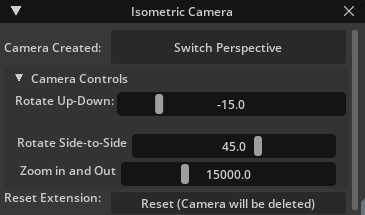
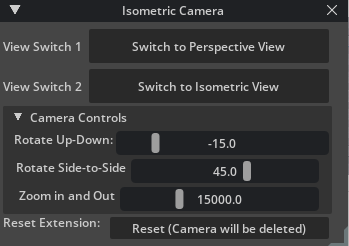
Fixes post Omniverse Developer Q&A - 1/20/2022

diff --git a/exts/funkyboy.isometric.camera/funkyboy/isometric/camera/window.py b/exts/funkyboy.isometric.camera/funkyboy/isometric/camera/window.py
@@ -6,7 +6,7 @@ from .camera_maker import CameraMaker
 from omni.kit.widget.viewport import ViewportWidget
 from pxr import Gf, Sdf
 
-# this file controls all ui elements and
+# this file controls all ui elements and contains the slider models which are used to rotate the camera
 
 WINDOW_TITLE = "Isometric Camera"
 
@@ -15,9 +15,7 @@ SPACING = 4
 class IsometricCameraWindow(ui.Window):
     def __init__(self, title, menu_path):
         # call the super class init method and set the window's title and size
-        super().__init__(title, width=450, height=200)
-        # dock the extension besides the enviornments tab
-        super().dock_in_window("Environments", ui.DockPosition.SAME) 
+        super().__init__(title, width=350, height=250)
         # store the menu path passed as an argument
         self._menu_path = menu_path
         # set a function that will be called when the window's visibility changes
@@ -30,6 +28,8 @@ class IsometricCameraWindow(ui.Window):
         self.is_isometric = False
 
     def _build_window(self):
+        #Dock the Window
+        super().dock_in_window("Property", ui.DockPosition.SAME)
         # Create a scrolling frame
         with ui.ScrollingFrame():
             # Create a vertical stack layout
@@ -42,41 +42,46 @@ class IsometricCameraWindow(ui.Window):
                     self.camera_created = True
                     # Set the build function to the one for when a camera has been created
                     self.frame.set_build_fn(self._build_window_camera_created)
+                    from omni.kit.viewport.utility import get_active_viewport
+                    viewport = get_active_viewport()
+                    viewport.camera_path = ("/World/Isometric_Camera/Isometric_Camera")
                 # Create a horizontal stack layout
                 with ui.HStack(height=0, spacing=SPACING):
                     # Create a label "Start Here: "
                     ui.Label("Start Here: ", height=40, width=0)
                     # Create a button with the text "Create Camera" and call the on_create_camera function when clicked
-                    ui.Button("Create Camera", clicked_fn=on_create_camera)
-
-    def _build_window_camera_created(self):
-        with ui.ScrollingFrame():
-            with ui.VStack(height=0):
-                def on_switch_camera():
-                    # Get the active viewport
+                    ui.Button("Create Camera and Switch View", clicked_fn=on_create_camera)
                     from omni.kit.viewport.utility import get_active_viewport
                     viewport = get_active_viewport()
-                    # Check if there is no active viewport and raise an error if there isn't
-                    if not viewport:
-                        raise RuntimeError("No active Viewport")
-                    # make button switch to isometric camera
-                    if not self.is_isometric:
-                        viewport.camera_path = ("/World/Isometric_Camera/Isometric_Camera")
-                        self.is_isometric = True
-                    # make button switch to Omniverse default perspective view 
-                    else:
-                        viewport.camera_path = ('/OmniverseKit_Persp')
-                        self.is_isometric = False
-                # Create UI Buttons to switch perspective
+                    viewport.camera_path = ("/World/Isometric_Camera/Isometric_Camera")
+
+
+
+    def _build_window_camera_created(self):
+        #Function to switch to Isometric View
+        def isometric_switch():
+            from omni.kit.viewport.utility import get_active_viewport
+            viewport = get_active_viewport()
+            viewport.camera_path = ("/World/Isometric_Camera/Isometric_Camera")
+            self.is_isometric = True
+        #Function to switch to Perspective View
+        def perspective_switch():
+            # Get the active viewport
+            from omni.kit.viewport.utility import get_active_viewport
+            viewport = get_active_viewport()
+            viewport.camera_path = ('/OmniverseKit_Persp')
+            self.is_isometric = False
+        with ui.ScrollingFrame():
+            with ui.VStack(height=0):
                 with ui.HStack(height=0, spacing=SPACING):
-                    ui.Label("Camera Created: ", height=40, width=0)
-                    ui.Button("Switch Perspective", clicked_fn=on_switch_camera, label=self.get_button_label())
-                # with ui.HStack(height=0, spacing=SPACING):
-                #     ui.Label("Current camera: ", height=40, width=0)
-                #     ui.Label("Isometric Camera" if self.is_isometric else "Perspective Camera", id="current_camera")
-            
+                    ui.Label("View Switch 1", height=40, width=0)
+                    ui.Button("Switch to Perspective View", clicked_fn=perspective_switch)                    
+                with ui.HStack(height=0, spacing=SPACING):
+                    ui.Label("View Switch 2", height=40, width=0)
+                    ui.Button("Switch to Isometric View", clicked_fn=isometric_switch)
+     
              
-                #create a simple float value that can be bound to a UI
+                #create a model for each slider
                 self._slider_model_x = ui.SimpleFloatModel()
                 self._slider_model_y = ui.SimpleFloatModel()
                 self._slider_model_zoom = ui.SimpleFloatModel()
@@ -92,14 +97,13 @@ class IsometricCameraWindow(ui.Window):
 
                 ui.Spacer(width=0,height=0)
                 # Create Ui elements to control the camera
-                with ui.CollapsableFrame("Camera Controls", name="group", height=100,):
+                with ui.CollapsableFrame("Isometric Camera Controls", name="group", height=100,):
                     with ui.VStack(height=0, spacing=SPACING):
                         with ui.HStack():
                             ui.Spacer(width=5)
                             ui.Label(" Rotate Up-Down: ", height=0, width=0)
                             ui.FloatSlider(self._slider_model_x,  min=0, max=-90, step=0.5,
-                            style={
-                        "draw_mode": ui.SliderDrawMode.HANDLE,
+                            style={"draw_mode": ui.SliderDrawMode.HANDLE,
                         })   
 
                         # This function updates the rotation of the camera on the x-axis    
@@ -126,8 +130,8 @@ class IsometricCameraWindow(ui.Window):
                             self._slider_model_x.as_float = current_rotation_x
                             # Subscribe to the value changed function of self._slider_model_x and pass in the update_rotate_x function
                             self._slider_subscription_x = self._slider_model_x.subscribe_value_changed_fn(lambda m, p=self._source_prim_model, c=current_rotation_x: update_rotate_x(p, m.as_float, c))
-                        # UI Elements for rotate Y
                         
+                        # UI Elements for rotate Y
                         with ui.HStack():
                             ui.Spacer(width=10)
                             ui.Label("Rotate Side-to-Side", height=0, width=0)
@@ -191,9 +195,6 @@ class IsometricCameraWindow(ui.Window):
                 with ui.HStack(height=0, spacing=SPACING):
                     ui.Label("Reset Extension: ", height=0, width=0)
                     ui.Button("Reset (Camera will be deleted)", clicked_fn=on_reset)        
-
-    def get_button_label(self):
-        return "Switch to Perspective Camera" if self.is_isometric else "Switch to Isometric Camera"
 
     def _on_visibility_changed(self, visible):
         omni.kit.ui.get_editor_menu().set_value(self._menu_path, visible)

diff --git a/exts/funkyboy.isometric.camera/funkyboy/isometric/camera/extension.py b/exts/funkyboy.isometric.camera/funkyboy/isometric/camera/extension.py
@@ -2,6 +2,8 @@ import omni.ext
 import omni.kit.ui
 from .window import IsometricCameraWindow, WINDOW_TITLE
 
+# very simple extension.py file that will launch the extension and add the extension to the "Window" Menu 
+
 class FunkyboyIsometricCameraExtension(omni.ext.IExt):
     def on_startup(self, ext_id): 
         self._menu_path = f"Window/{WINDOW_TITLE}"

diff --git a/exts/funkyboy.isometric.camera/docs/CHANGELOG.md b/exts/funkyboy.isometric.camera/docs/CHANGELOG.md
@@ -1,5 +1,5 @@
 # Changelog
 
 ## [1.0.0] - 2023-01-18
-- Initial version of Isometric CAmera
+- Initial version of Isometric Camera
 
